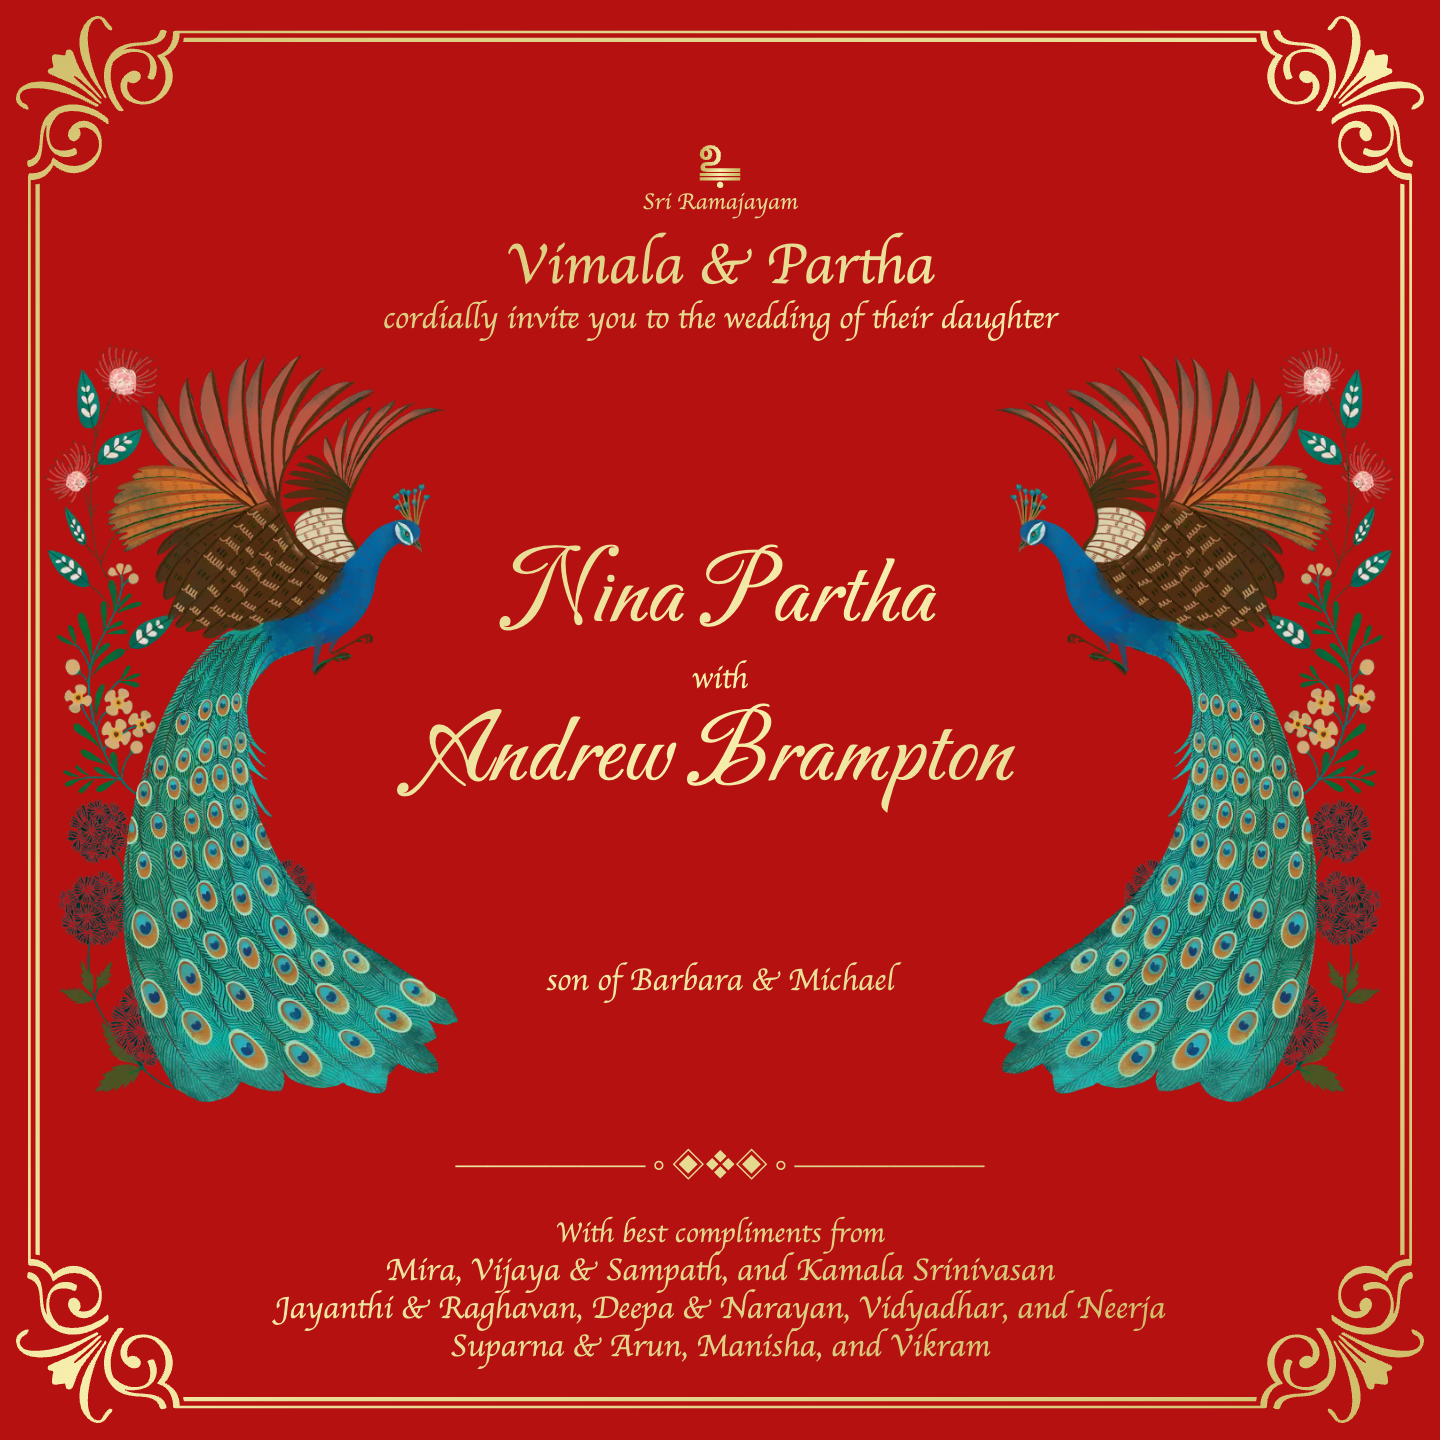
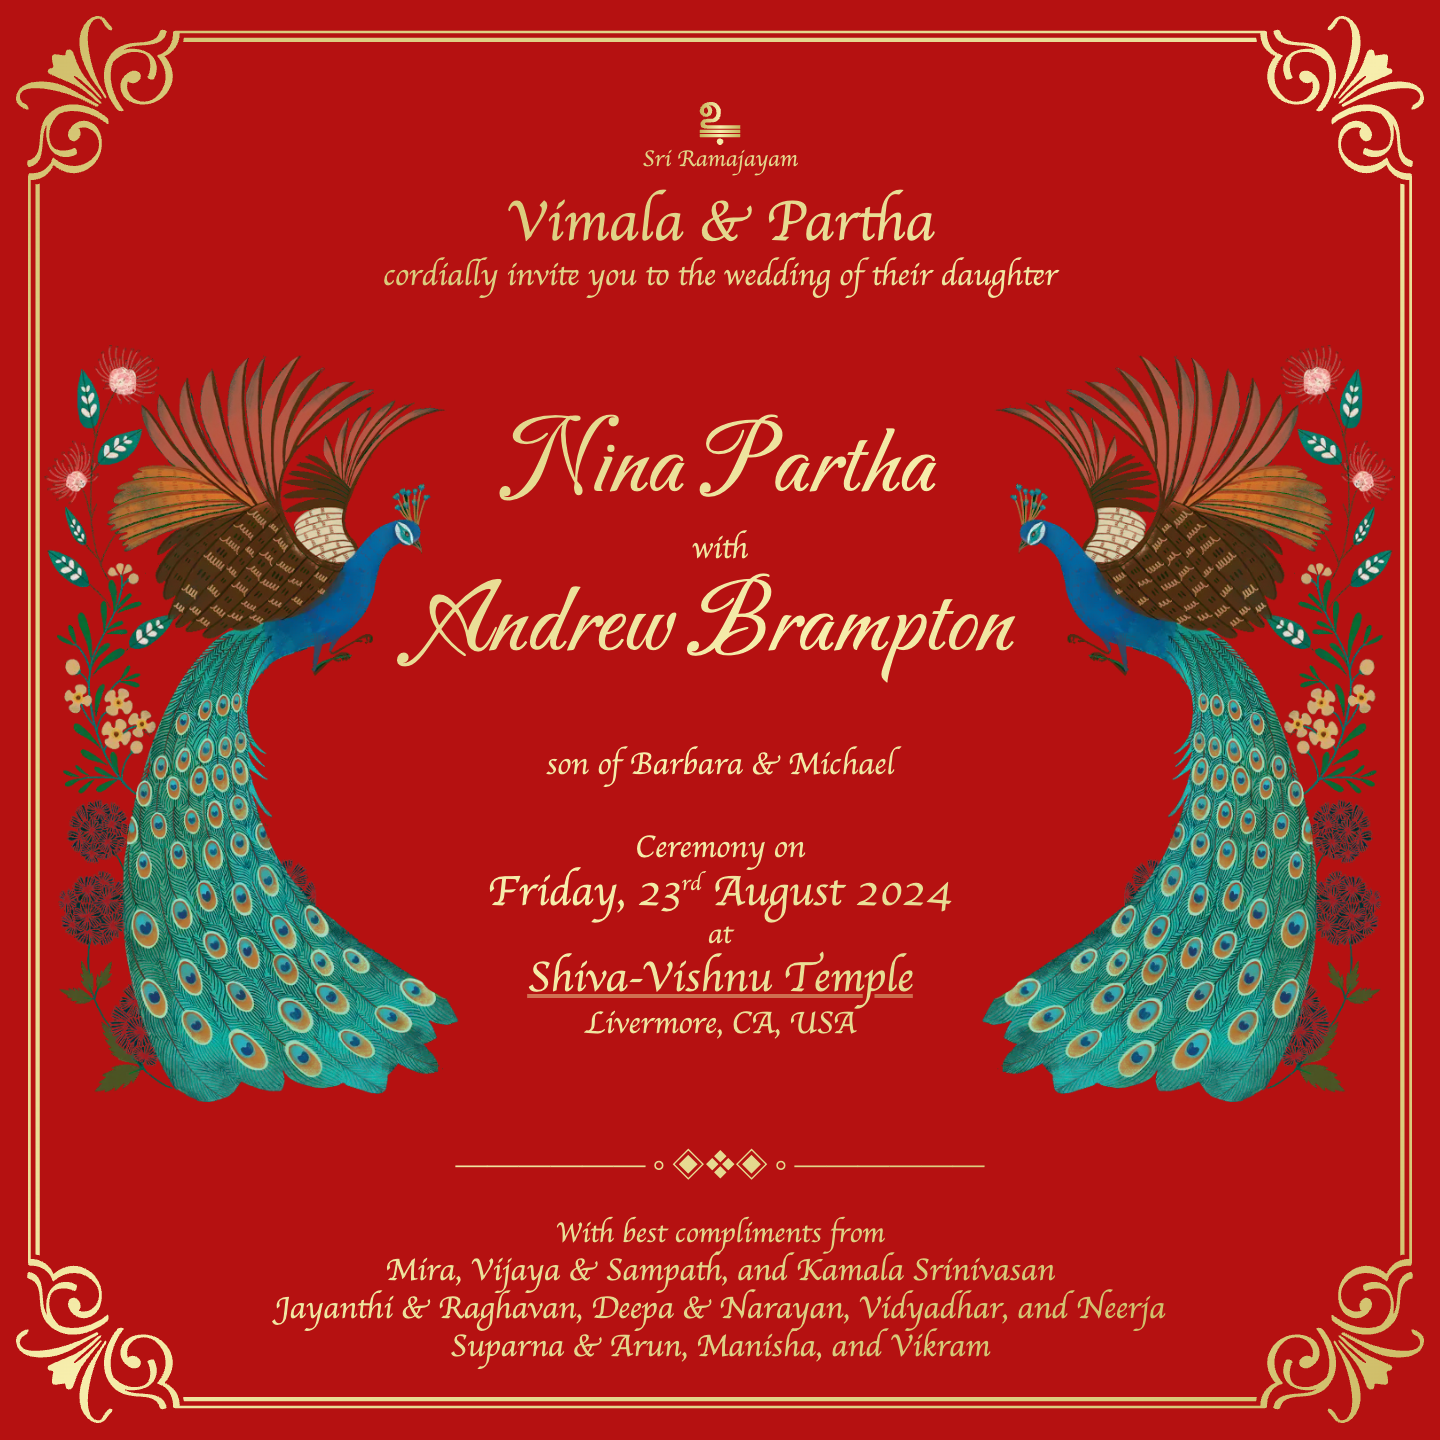
Fix the wedding only invite, to actually have the wedding.

Changed region(s): [[0.2812, 0.375, 0.7188, 0.7188], [0.2812, 0.0625, 0.75, 0.25], [0.3438, 0.2812, 0.6562, 0.3438]]

diff --git a/src/www/css/invite.css b/src/www/css/invite.css
@@ -164,11 +164,6 @@ body {
   white-space: normal;
 }
 
-.reception-only .ceremony {
-  display: none;
-  visibility: hidden;
-}
-
 .reception-only .left {
   padding-top: 150px;
 }

diff --git a/www/css/invite.css b/www/css/invite.css
@@ -164,11 +164,6 @@ body {
   white-space: normal;
 }
 
-.reception-only .ceremony {
-  display: none;
-  visibility: hidden;
-}
-
 .reception-only .left {
   padding-top: 150px;
 }
